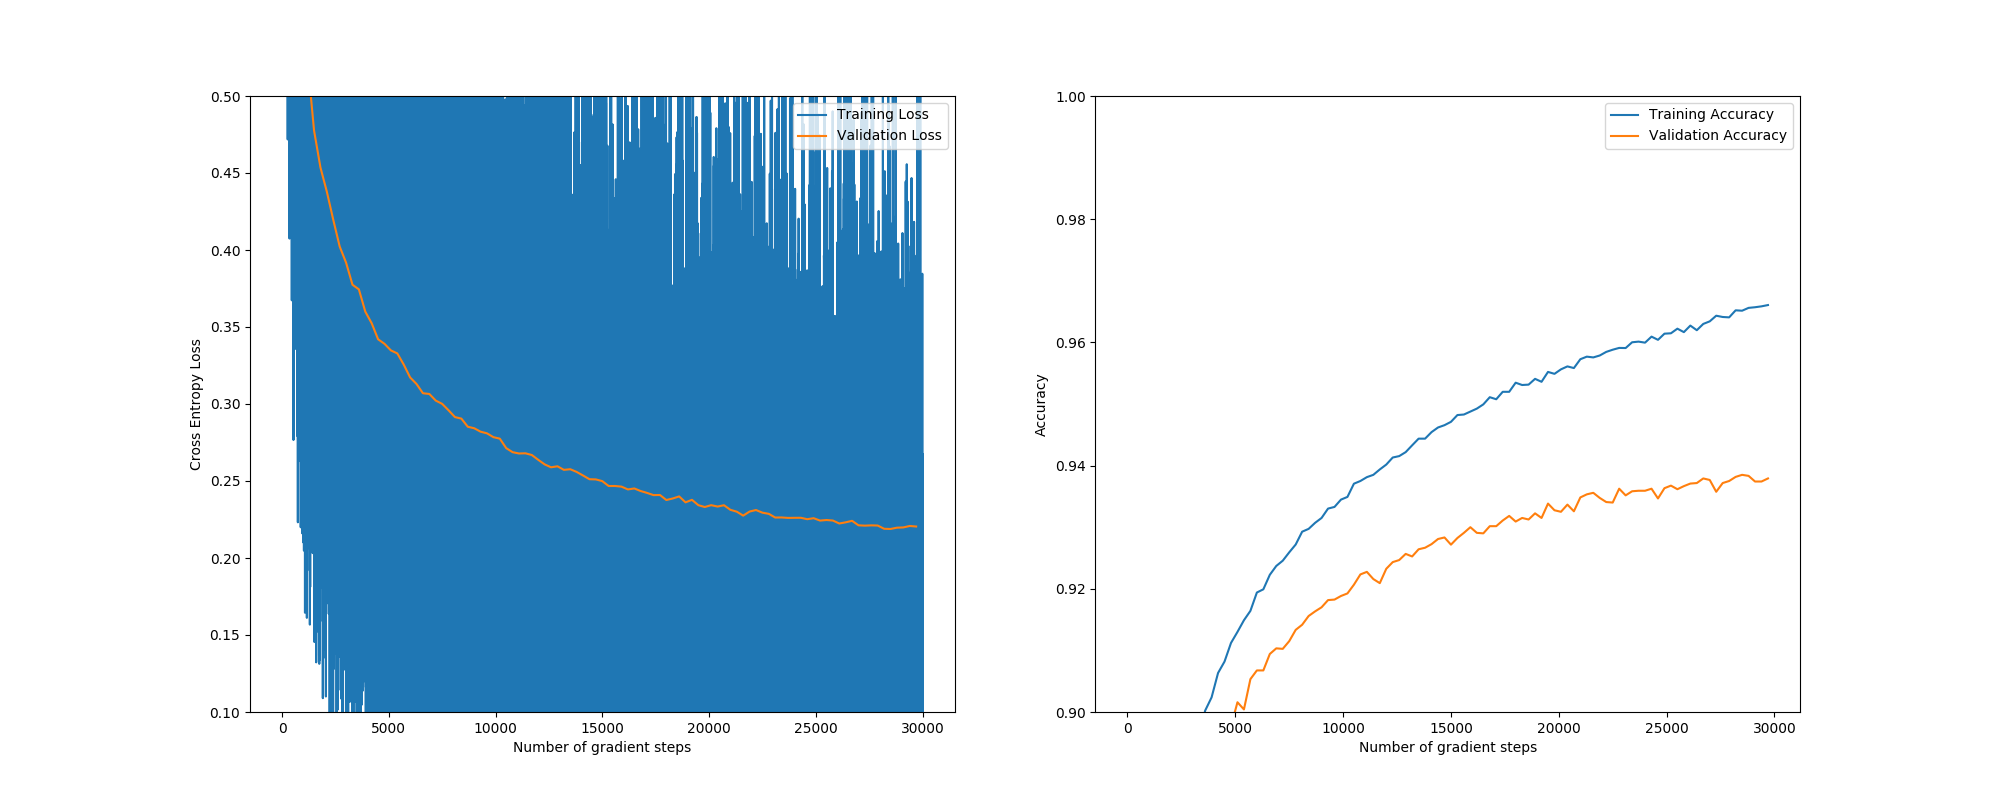
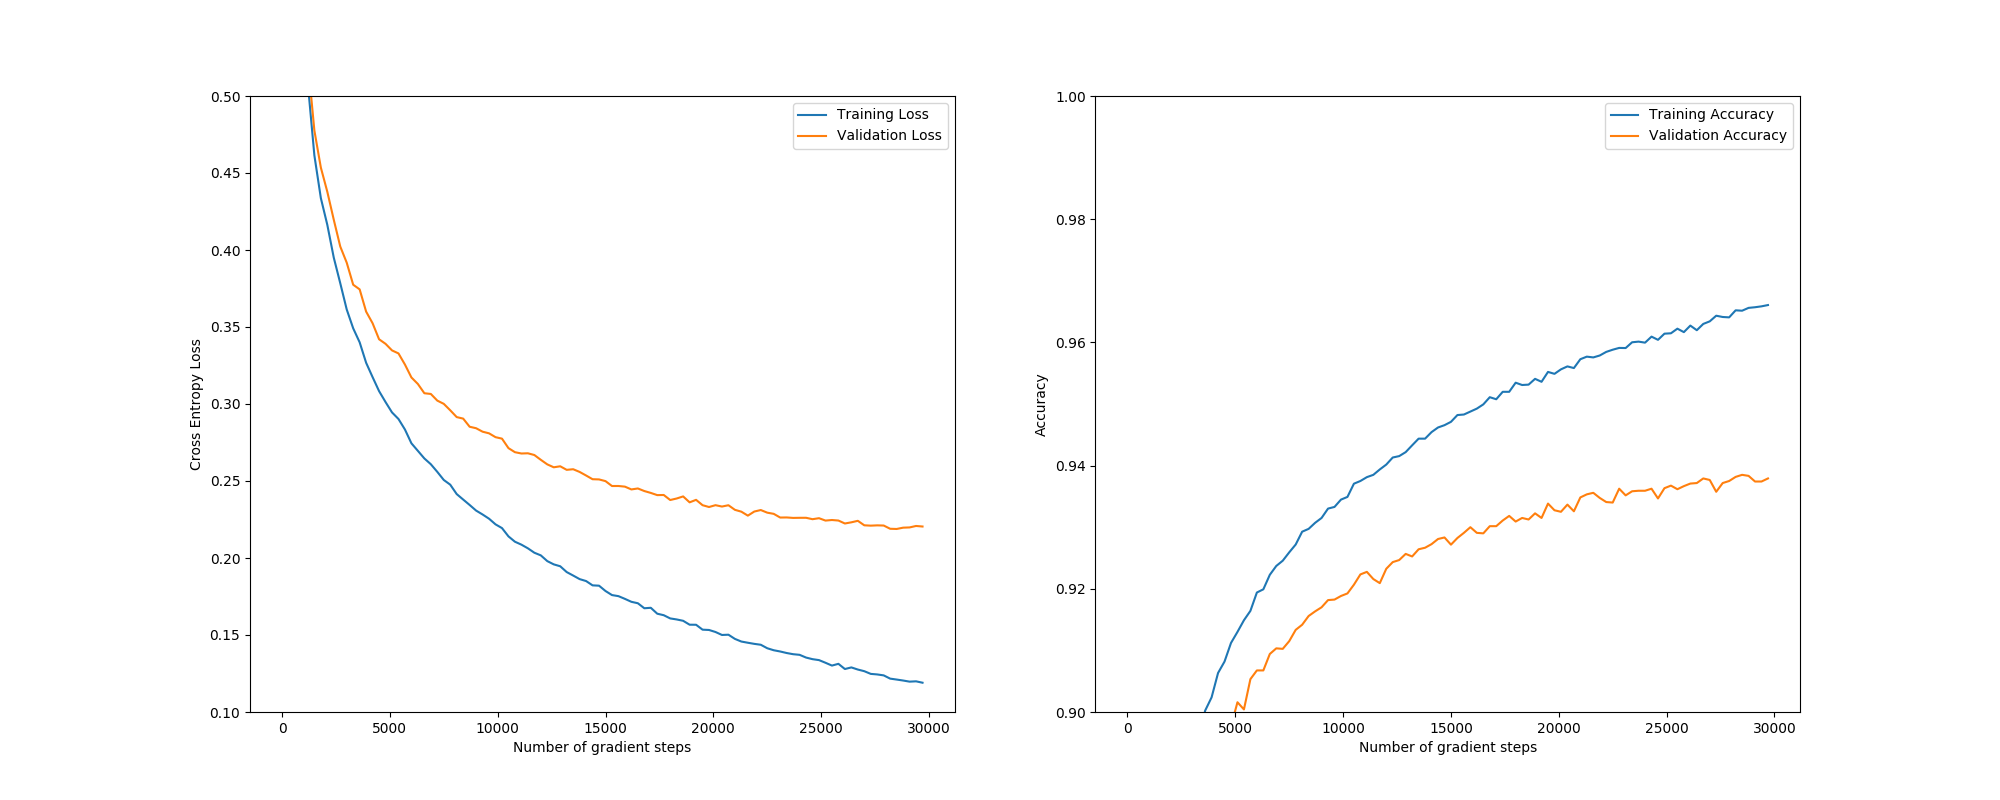
Update the tracking of train loss

Changed region(s): [[0.124, 0.0938, 0.465, 0.9375]]

diff --git a/assignment2/task2.py b/assignment2/task2.py
@@ -62,12 +62,13 @@ def train(
             model.ws[-1] = model.ws[-1] - learning_rate * model.grads[-1]
             model.ws[-2] = model.ws[-2] - learning_rate * model.grads[-2]
 
-            _train_loss = cross_entropy_loss(Y_batch, outputs)
-            train_loss[global_step] = _train_loss
-
             if (global_step % num_steps_per_val) == 0:
-                outputs_val = model.forward(X_val)
-                _val_loss = cross_entropy_loss(Y_val, outputs_val)
+                _outputs_train = model.forward(X_train)
+                _train_loss = cross_entropy_loss(Y_train, _outputs_train)
+                train_loss[global_step] = _train_loss
+
+                _outputs_val = model.forward(X_val)
+                _val_loss = cross_entropy_loss(Y_val, _outputs_val)
                 val_loss[global_step] = _val_loss
 
                 train_accuracy[global_step] = calculate_accuracy(
@@ -148,7 +149,7 @@ if __name__ == "__main__":
     plt.ylabel("Cross Entropy Loss")
     plt.legend()
     plt.subplot(1, 2, 2)
-    
+
     # Plot accuracy
     plt.ylim([0.9, 1.0])
     utils.plot_loss(train_accuracy, "Training Accuracy")

diff --git a/assignment2/task3.py b/assignment2/task3.py
@@ -70,12 +70,13 @@ def train(
             model.ws[-1] = model.ws[-1] - learning_rate * model.grads[-1]
             model.ws[-2] = model.ws[-2] - learning_rate * model.grads[-2]
 
-            _train_loss = cross_entropy_loss(Y_batch, outputs)
-            train_loss[global_step] = _train_loss
-
             if (global_step % num_steps_per_val) == 0:
-                outputs_val = model.forward(X_val)
-                _val_loss = cross_entropy_loss(Y_val, outputs_val)
+                _outputs_train = model.forward(X_train)
+                _train_loss = cross_entropy_loss(Y_train, _outputs_train)
+                train_loss[global_step] = _train_loss
+
+                _outputs_val = model.forward(X_val)
+                _val_loss = cross_entropy_loss(Y_val, _outputs_val)
                 val_loss[global_step] = _val_loss
 
                 train_accuracy[global_step] = calculate_accuracy(
